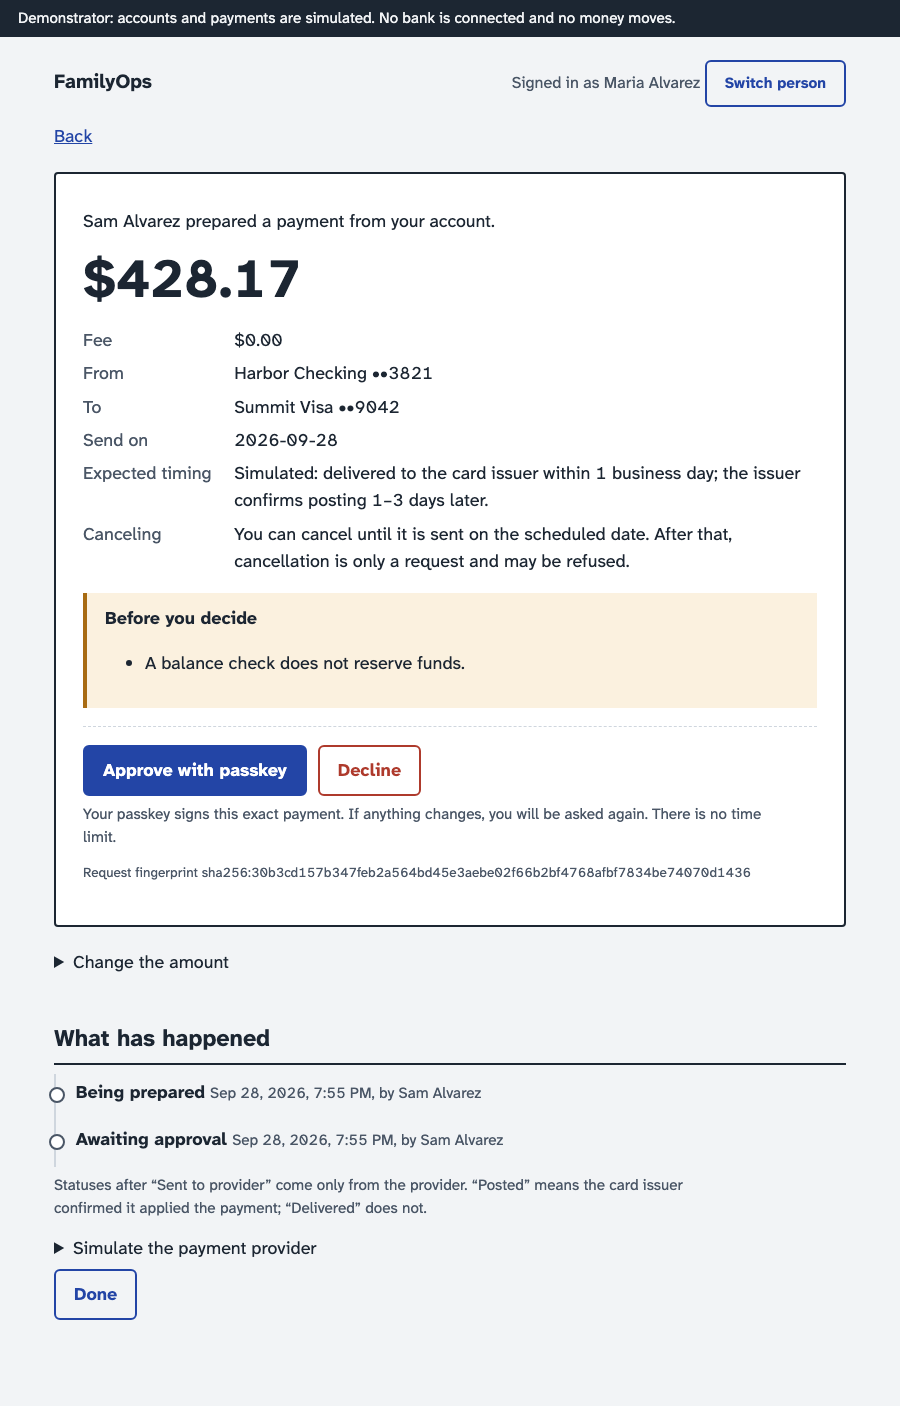
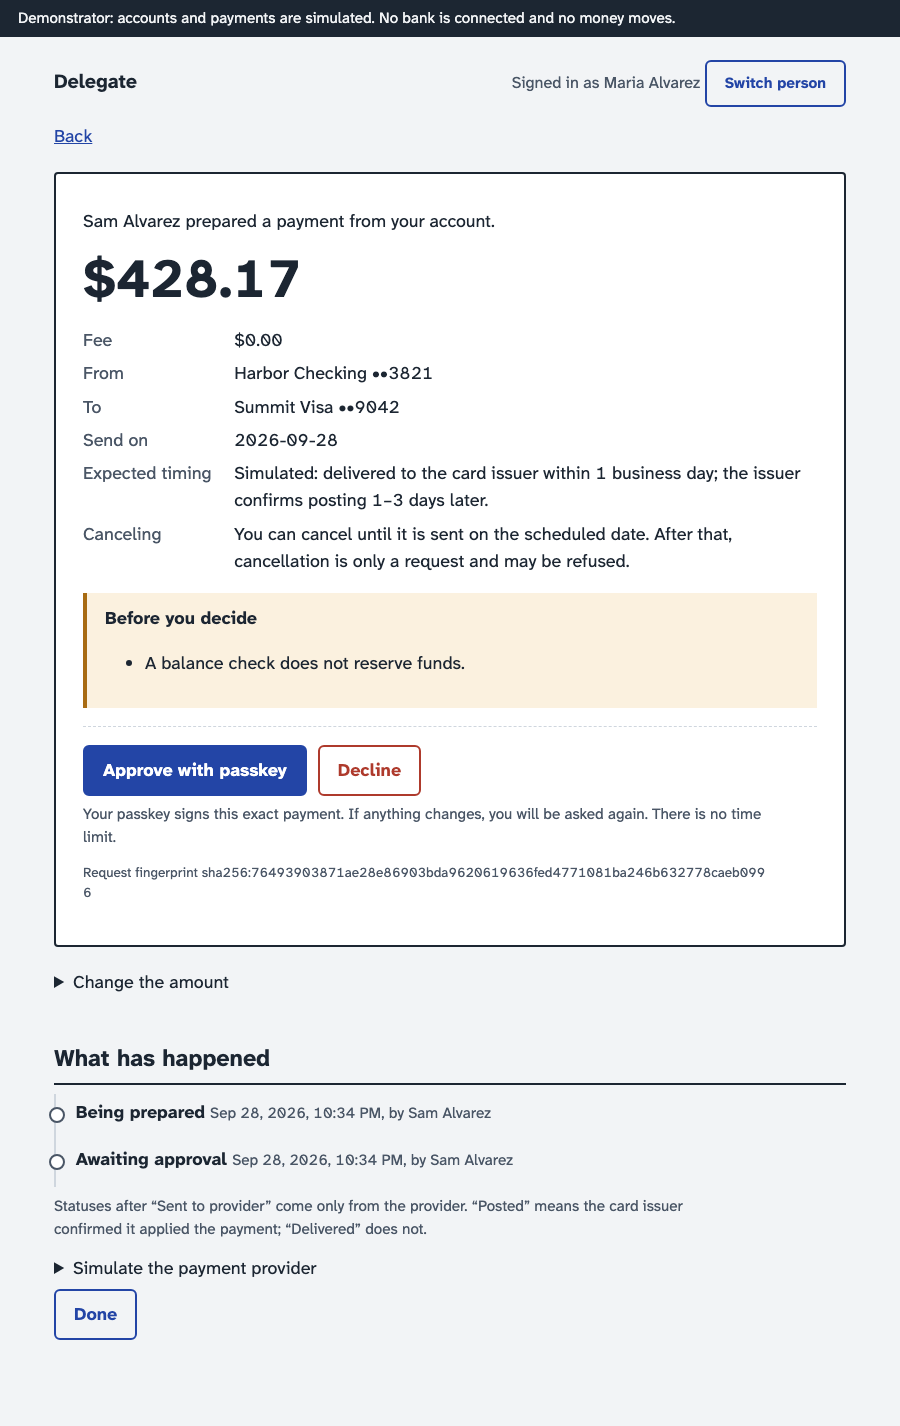
Rename FamilyOps to Delegate
The kernel is general delegation with owner approval; finance and families
are the first case, not the scope. 'Steward' was ruled out: a project with
the same pitch (StewardFinancial/steward) appeared the same day, and
Stewardly is an established wealth-tech brand.

Database roles, the enqueue function and the local key directory are
renamed too (no deployments exist, so no compatibility shims). The PRD keeps
its original text with a note. In the UI the app refers to itself as 'the
app' where 'Delegate' would read as the helping person.

diff --git a/src/db/migrations/0003_security.ts b/src/db/migrations/0003_security.ts
@@ -46,21 +46,21 @@ export async function up(db: Kysely<unknown>): Promise<void> {
     -- can only append to the audit log, and cannot see the simulated
     -- provider's schema at all; the provider role sees only that schema.
     do $$ begin
-      if not exists (select from pg_roles where rolname = 'familyops_app') then create role familyops_app nologin; end if;
-      if not exists (select from pg_roles where rolname = 'familyops_fakepay') then create role familyops_fakepay nologin; end if;
+      if not exists (select from pg_roles where rolname = 'delegate_app') then create role delegate_app nologin; end if;
+      if not exists (select from pg_roles where rolname = 'delegate_fakepay') then create role delegate_fakepay nologin; end if;
     end $$;
 
-    grant usage on schema public to familyops_app;
-    grant select, insert, update, delete on all tables in schema public to familyops_app;
-    grant usage, select on all sequences in schema public to familyops_app;
-    revoke update, delete, truncate on audit_event, audit_checkpoint from familyops_app;
-    revoke delete, truncate on intent_event from familyops_app;
-    revoke all on kysely_migration, kysely_migration_lock from familyops_app;
-    revoke all on schema fakepay from familyops_app;
+    grant usage on schema public to delegate_app;
+    grant select, insert, update, delete on all tables in schema public to delegate_app;
+    grant usage, select on all sequences in schema public to delegate_app;
+    revoke update, delete, truncate on audit_event, audit_checkpoint from delegate_app;
+    revoke delete, truncate on intent_event from delegate_app;
+    revoke all on kysely_migration, kysely_migration_lock from delegate_app;
+    revoke all on schema fakepay from delegate_app;
 
-    grant usage on schema fakepay to familyops_fakepay;
-    grant select, insert, update, delete on all tables in schema fakepay to familyops_fakepay;
-    grant usage, select on all sequences in schema fakepay to familyops_fakepay;
+    grant usage on schema fakepay to delegate_fakepay;
+    grant select, insert, update, delete on all tables in schema fakepay to delegate_fakepay;
+    grant usage, select on all sequences in schema fakepay to delegate_fakepay;
   `.execute(db);
 }
 

diff --git a/test/security.test.ts b/test/security.test.ts
@@ -361,8 +361,8 @@ describe("9. least privilege in the database", () => {
     ).rejects.toThrow(/permission denied/);
   });
 
-  it("the provider role cannot read FamilyOps data", async () => {
-    const provider = createDb(app.url, "familyops_fakepay");
+  it("the provider role cannot read Delegate data", async () => {
+    const provider = createDb(app.url, "delegate_fakepay");
     await expect(provider.selectFrom("person").selectAll().execute()).rejects.toThrow(
       /permission denied/,
     );
@@ -512,19 +512,19 @@ describe("red-team follow-ups", () => {
           app.admin,
         )
       ).rows[0]!.run_at.getTime();
-    await sql`select public.familyops_enqueue('dispatch', ${payload}::json, ${soon}::timestamptz)`.execute(
+    await sql`select public.delegate_enqueue('dispatch', ${payload}::json, ${soon}::timestamptz)`.execute(
       app.kernel.db,
     );
-    await sql`select public.familyops_enqueue('dispatch', ${payload}::json, ${later}::timestamptz)`.execute(
+    await sql`select public.delegate_enqueue('dispatch', ${payload}::json, ${later}::timestamptz)`.execute(
       app.kernel.db,
     );
     expect(await runAt()).toBe(soon.getTime());
-    await sql`select public.familyops_enqueue('dispatch', ${payload}::json, ${earlier}::timestamptz)`.execute(
+    await sql`select public.delegate_enqueue('dispatch', ${payload}::json, ${earlier}::timestamptz)`.execute(
       app.kernel.db,
     );
     expect(await runAt()).toBe(earlier.getTime());
     await expect(
-      sql`select public.familyops_enqueue('drop_everything', ${payload}::json, null)`.execute(
+      sql`select public.delegate_enqueue('drop_everything', ${payload}::json, null)`.execute(
         app.kernel.db,
       ),
     ).rejects.toThrow(/unknown task/);

diff --git a/src/db/index.ts b/src/db/index.ts
@@ -17,7 +17,7 @@ pg.types.setTypeParser(pg.types.builtins.DATE, (v) => v);
 
 // Every connection drops to a least-privilege role when one is given, so the
 // database, not only the application, refuses what that role must not do.
-export type DbRole = "familyops_app" | "familyops_fakepay";
+export type DbRole = "delegate_app" | "delegate_fakepay";
 
 export function createDb(connectionString: string, role?: DbRole): Db {
   const pool = new pg.Pool({ connectionString, max: 20 });
@@ -51,8 +51,8 @@ export async function migrate(db: Db): Promise<void> {
 // can't postpone it.
 export async function grantJobPrivileges(db: Db): Promise<void> {
   await sql`
-    drop function if exists public.familyops_enqueue(text, json, timestamptz, text, integer);
-    create or replace function public.familyops_enqueue(p_identifier text, p_payload json, p_run_at timestamptz)
+    drop function if exists public.delegate_enqueue(text, json, timestamptz, text, integer);
+    create or replace function public.delegate_enqueue(p_identifier text, p_payload json, p_run_at timestamptz)
     returns void
     language plpgsql security definer set search_path = pg_catalog, graphile_worker as $$
     declare
@@ -77,7 +77,7 @@ export async function grantJobPrivileges(db: Db): Promise<void> {
         where key = v_key and locked_at is null;
       end if;
     end $$;
-    revoke all on function public.familyops_enqueue(text, json, timestamptz) from public;
-    grant execute on function public.familyops_enqueue(text, json, timestamptz) to familyops_app;
+    revoke all on function public.delegate_enqueue(text, json, timestamptz) from public;
+    grant execute on function public.delegate_enqueue(text, json, timestamptz) to delegate_app;
   `.execute(db);
 }

diff --git a/src/config.ts b/src/config.ts
@@ -22,8 +22,7 @@ export function webhookSecret(): string {
 
 export const config = {
   production,
-  databaseUrl:
-    process.env.DATABASE_URL ?? "postgres://familyops:familyops@localhost:54329/familyops",
+  databaseUrl: process.env.DATABASE_URL ?? "postgres://delegate:delegate@localhost:54329/delegate",
   apiPort: Number(process.env.PORT ?? 8787),
   devLogin,
   rpId: process.env.RP_ID ?? "localhost",
@@ -32,14 +31,14 @@ export const config = {
 
 // The key that signs audit checkpoints. In production it comes from the
 // environment (a KMS-held key in R1) and must never be stored in the database.
-// In the demo a local key is created once under .familyops/ (gitignored).
+// In the demo a local key is created once under .delegate/ (gitignored).
 export function auditSigningKey(): KeyObject {
   const pem = process.env.AUDIT_SIGNING_KEY;
   if (pem) return createPrivateKey(pem);
   if (!devLogin) throw new Error("AUDIT_SIGNING_KEY is required unless DEV_LOGIN=1");
-  const path = ".familyops/audit-signing-key.pem";
+  const path = ".delegate/audit-signing-key.pem";
   if (!existsSync(path)) {
-    mkdirSync(".familyops", { recursive: true });
+    mkdirSync(".delegate", { recursive: true });
     const { privateKey } = generateKeyPairSync("ed25519");
     writeFileSync(path, privateKey.export({ type: "pkcs8", format: "pem" }), { mode: 0o600 });
   }

diff --git a/src/scripts/walkthrough.ts b/src/scripts/walkthrough.ts
@@ -51,7 +51,7 @@ for (const label of [
 ]) {
   await maria
     .locator("li", { hasText: label })
-    .getByRole("button", { name: "Use in FamilyOps" })
+    .getByRole("button", { name: "Use in the app" })
     .click();
   await maria
     .locator("li", { hasText: label })
@@ -84,13 +84,13 @@ await sam
   .locator("li", { hasText: "Summit Visa statement" })
   .getByRole("button", { name: "Prepare a payment" })
   .click();
-await sam.getByText("Can be sent from FamilyOps").waitFor();
+await sam.getByText("Can be sent from the app").waitFor();
 await shot(sam, "05-prepare");
 await sam.getByLabel("Pay to").selectOption({ label: "Harbor Savings ••5510" });
 await sam.getByText("Not available.").waitFor();
 await shot(sam, "06-honest-capability");
 await sam.getByLabel("Pay to").selectOption({ label: "Summit Visa ••9042" });
-await sam.getByText("Can be sent from FamilyOps").waitFor();
+await sam.getByText("Can be sent from the app").waitFor();
 await sam.getByRole("button", { name: "Send to Maria Alvarez for approval" }).click();
 await sam.getByText("Awaiting approval").first().waitFor();
 

diff --git a/test/global-setup.ts b/test/global-setup.ts
@@ -20,14 +20,14 @@ export async function setup(project: TestProject) {
   const admin = new pg.Client({ connectionString: adminUrl });
   await admin.connect();
   const stale = await admin.query<{ datname: string }>(
-    "select datname from pg_database where datname = 'familyops_template' or datname like 't\\_%'",
+    "select datname from pg_database where datname = 'delegate_template' or datname like 't\\_%'",
   );
   for (const { datname } of stale.rows)
     await admin.query(`drop database "${datname}" with (force)`);
-  await admin.query("create database familyops_template");
+  await admin.query("create database delegate_template");
   await admin.end();
   const url = new URL(adminUrl);
-  url.pathname = "/familyops_template";
+  url.pathname = "/delegate_template";
   const db = createDb(url.toString());
   await migrate(db);
   await runMigrations({ connectionString: url.toString() });

diff --git a/src/app.ts b/src/app.ts
@@ -17,9 +17,9 @@ export function buildApp(opts: {
   fakepaySecret: string;
   db?: Db;
 }): App {
-  const db = opts.db ?? createDb(opts.databaseUrl, "familyops_app");
+  const db = opts.db ?? createDb(opts.databaseUrl, "delegate_app");
   // The simulated provider gets its own pool: it is "someone else's system".
-  const providerDb = createDb(opts.databaseUrl, "familyops_fakepay");
+  const providerDb = createDb(opts.databaseUrl, "delegate_fakepay");
   const fakepay = createFakepay(providerDb, opts.fakepaySecret);
   const registry = new Registry([financeModule(fakepay)]);
   return {

diff --git a/src/modules/finance/fakepay.ts b/src/modules/finance/fakepay.ts
@@ -12,7 +12,7 @@ import type { PaymentDetails } from "./payment.js";
 // A simulated creditor-payment provider with a controllable failure mode. It
 // keeps its own state in the `fakepay` schema and is always reached through
 // its own connection, so like a real provider nothing it writes shares a
-// transaction with FamilyOps. Its documented semantics, which the adapter
+// transaction with Delegate. Its documented semantics, which the adapter
 // relies on: one operation per idempotency key, forever; lookups by key.
 
 export type FakepayMode =

diff --git a/test/redteam.test.ts b/test/redteam.test.ts
@@ -391,7 +391,7 @@ describe("R8. the application role can rewrite queued jobs through the definer f
       const intentId = await approvedIntent(s, 3_500);
       const key = `dispatch:${intentId}`;
       const before = (await jobs(s.app, "dispatch")).find((j) => j.key === key)!;
-      await sql`select public.familyops_enqueue(
+      await sql`select public.delegate_enqueue(
         'dispatch', '{"intentId":"nothing"}'::json, '2999-01-01'::timestamptz, ${key}, 25
       )`
         .execute(s.app.kernel.db)

diff --git a/src/kernel/intents.ts b/src/kernel/intents.ts
@@ -279,7 +279,7 @@ export async function requestApproval(k: Kernel, actorId: string, intentId: stri
         ownerId: i.owner_id,
         kind: "intent.approval_requested",
         message:
-          "A payment is waiting for your approval. Open FamilyOps yourself to review it; approving always needs your passkey.",
+          "A payment is waiting for your approval. Open Delegate yourself to review it; approving always needs your passkey.",
         toOwner: true,
       });
     }

diff --git a/src/api/main.ts b/src/api/main.ts
@@ -4,7 +4,7 @@ import { auditPublicKey, config, webhookSecret } from "../config.js";
 import { passkeyVerifier } from "../kernel/webauthn.js";
 import { buildServer } from "./server.js";
 
-const rp = { id: config.rpId, name: "FamilyOps (R0 demonstrator)", origin: config.rpOrigin };
+const rp = { id: config.rpId, name: "Delegate (R0 demonstrator)", origin: config.rpOrigin };
 const app = buildApp({
   databaseUrl: config.databaseUrl,
   stepUp: passkeyVerifier(rp),

diff --git a/test/helpers.ts b/test/helpers.ts
@@ -37,7 +37,7 @@ export async function freshApp(): Promise<TestApp> {
   const name = `t_${randomBytes(6).toString("hex")}`;
   const c = new pg.Client({ connectionString: adminUrl });
   await c.connect();
-  await c.query(`create database ${name} template familyops_template`);
+  await c.query(`create database ${name} template delegate_template`);
   await c.end();
   const url = new URL(adminUrl);
   url.pathname = `/${name}`;
